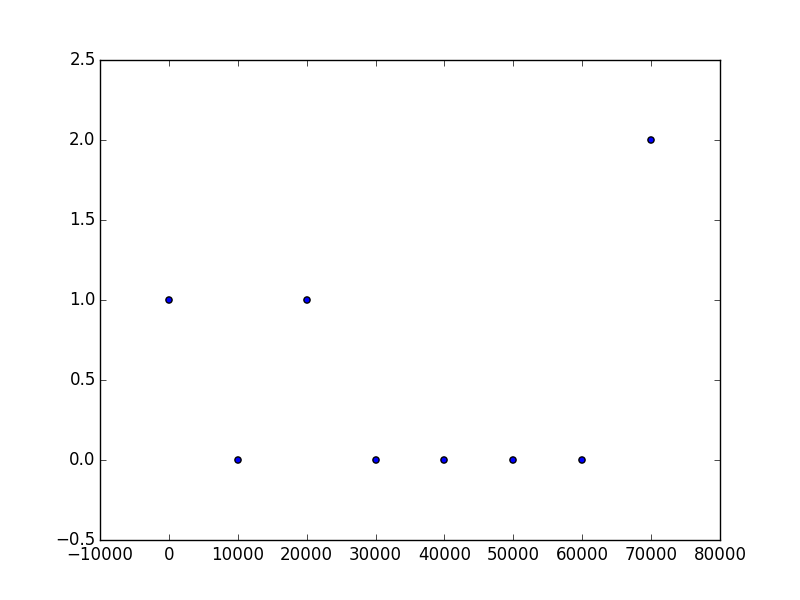
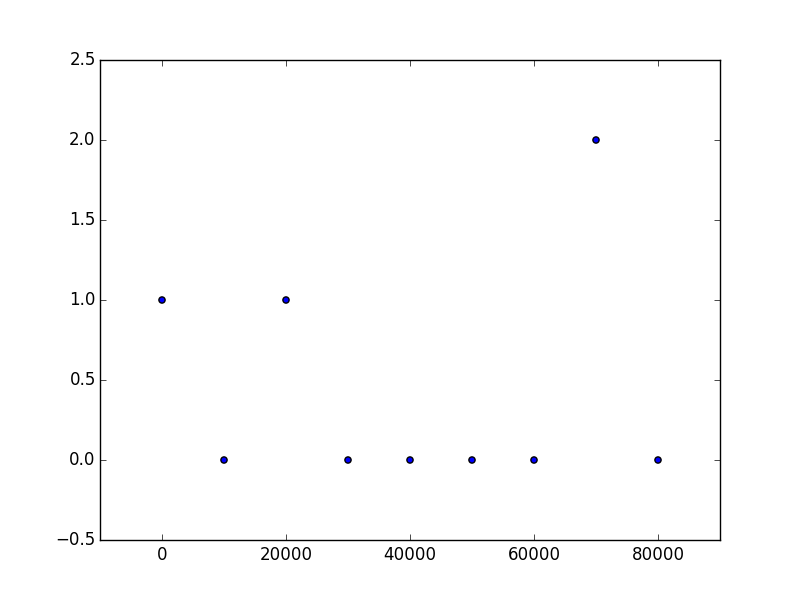
change formating to pep8

diff --git a/plot.py b/plot.py
@@ -4,26 +4,23 @@ import matplotlib.pyplot as plt
 import pdb
 
 files = [ "Positive_10k.json", "headProblemsExtended_10k.json",
-"a_10k.json", "hearLoud_10k.json",
-"an_10k.json", "hearSoft_10k.json",
-"discrepancy_10k.json", "hearSpeak_10k.json",
-"exclusives_10k.json", "negative_10k.json",
-"fillers_10k.json", "negativemarkers_10k.json",
-"fillersyouth_10k.json", "the_10k.json",
-"headProblems_10k.json", "think_10k.json" ]
+          "a_10k.json", "hearLoud_10k.json",
+          "an_10k.json", "hearSoft_10k.json",
+          "discrepancy_10k.json", "hearSpeak_10k.json",
+          "exclusives_10k.json", "negative_10k.json",
+          "fillers_10k.json", "negativemarkers_10k.json",
+          "fillersyouth_10k.json", "the_10k.json",
+          "headProblems_10k.json", "think_10k.json" ]
 
 for filename in files:
-	f = open('results/{}'.format(filename), 'r')
-	r = json.load(f)
-	f.close()
+    with open('results/{}'.format(filename), 'r') as f:
+        r = json.load(f)
 
-	i = 0
-	counts = []
-	wordnum = []
-	x = ['0','10000','20000','30000','40000','50000','60000','70000']
-	for indx in x:
-    		counts.append(r[indx]['+'])
-    		wordnum.append(int(indx))
-    	plt.scatter(wordnum, counts)
-    	plt.savefig('plots/{}.png'.format(filename[:-5]))
-        plt.close()
+    counts = []
+    wordnum = []
+    for key, value in r.items():
+        wordnum.append(int(key))
+        counts.append(value.get('+', 0))
+    plt.scatter(wordnum, counts)
+    plt.savefig('plots/{}.png'.format(filename[:-5]))
+    plt.close()
